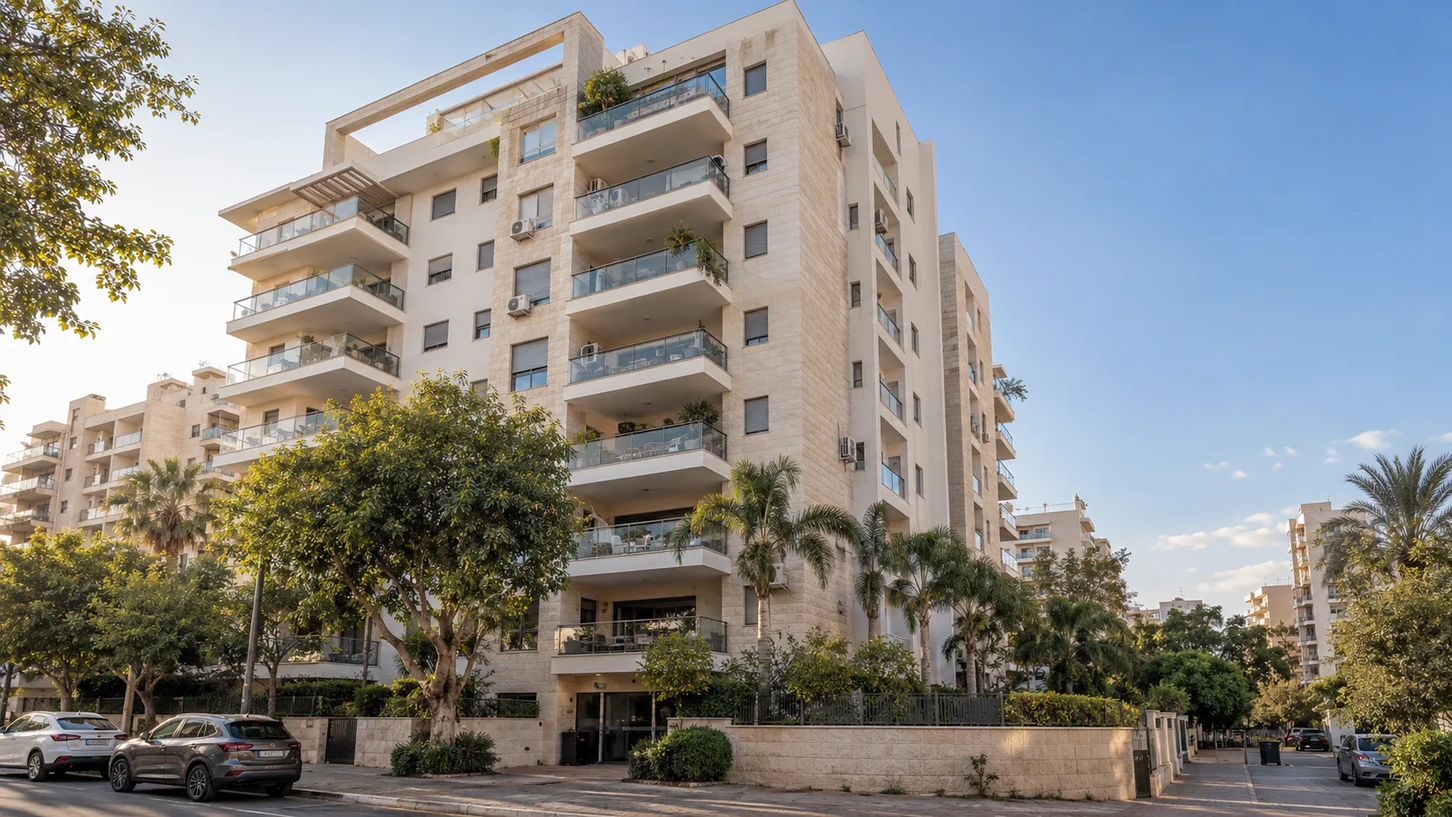
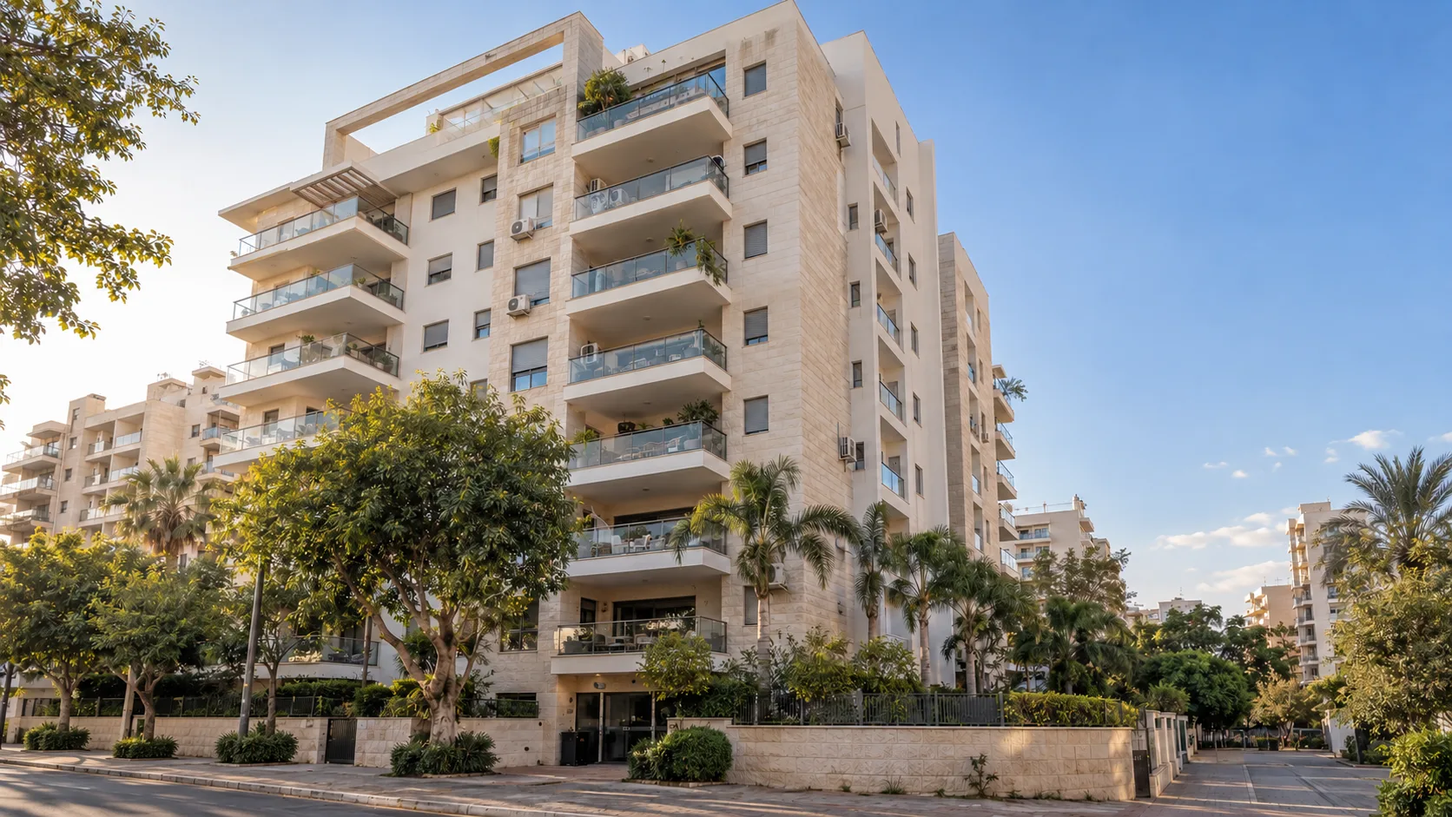
Hero images without cars (desktop and mobile), thin chevron in all buttons

diff --git a/index.html b/index.html
@@ -64,7 +64,7 @@
       <div class="nav__cta">
         <a class="btn btn--primary" href="#contact">
           <span class="btn__label" data-text="הערכת מחיר שוק">הערכת מחיר שוק</span>
-          <span class="btn__circle" aria-hidden="true"><svg focusable="false" xmlns="http://www.w3.org/2000/svg" viewBox="0 0 24 24" fill="currentColor" aria-hidden="true"><path fill-rule="nonzero" clip-rule="nonzero" d="M21.5 12C21.5 12.276 21.276 12.5 21 12.5L4.207 12.5L10.353 18.646C10.548 18.841 10.548 19.158 10.353 19.353C10.255 19.451 10.127 19.499 9.999 19.499C9.871 19.499 9.743 19.45 9.645 19.353L2.645 12.353C2.599 12.307 2.562 12.251 2.537 12.19C2.486 12.068 2.486 11.93 2.537 11.808C2.562 11.746 2.599 11.691 2.645 11.645L9.645 4.645C9.84 4.45 10.157 4.45 10.352 4.645C10.547 4.84 10.547 5.157 10.352 5.352L4.206 11.498L21 11.498C21.276 11.5 21.5 11.724 21.5 12Z"/></svg></span>
+          <span class="btn__circle" aria-hidden="true"><svg focusable="false" xmlns="http://www.w3.org/2000/svg" viewBox="0 0 24 24" fill="currentColor" aria-hidden="true"><path fill-rule="nonzero" clip-rule="nonzero" d="M15.354 18.646C15.549 18.841 15.549 19.158 15.354 19.353C15.256 19.451 15.128 19.499 15 19.499C14.872 19.499 14.744 19.45 14.646 19.353L7.646 12.353C7.451 12.158 7.451 11.841 7.646 11.646L14.646 4.646C14.841 4.451 15.158 4.451 15.353 4.646C15.548 4.841 15.548 5.158 15.353 5.353L8.707 11.999L15.354 18.646Z"/></svg></span>
         </a>
       </div>
     </nav>
@@ -72,7 +72,7 @@
     <div class="site-header__cta">
       <a class="btn btn--primary" href="#contact">
         <span class="btn__label" data-text="הערכת מחיר שוק">הערכת מחיר שוק</span>
-        <span class="btn__circle" aria-hidden="true"><svg focusable="false" xmlns="http://www.w3.org/2000/svg" viewBox="0 0 24 24" fill="currentColor" aria-hidden="true"><path fill-rule="nonzero" clip-rule="nonzero" d="M21.5 12C21.5 12.276 21.276 12.5 21 12.5L4.207 12.5L10.353 18.646C10.548 18.841 10.548 19.158 10.353 19.353C10.255 19.451 10.127 19.499 9.999 19.499C9.871 19.499 9.743 19.45 9.645 19.353L2.645 12.353C2.599 12.307 2.562 12.251 2.537 12.19C2.486 12.068 2.486 11.93 2.537 11.808C2.562 11.746 2.599 11.691 2.645 11.645L9.645 4.645C9.84 4.45 10.157 4.45 10.352 4.645C10.547 4.84 10.547 5.157 10.352 5.352L4.206 11.498L21 11.498C21.276 11.5 21.5 11.724 21.5 12Z"/></svg></span>
+        <span class="btn__circle" aria-hidden="true"><svg focusable="false" xmlns="http://www.w3.org/2000/svg" viewBox="0 0 24 24" fill="currentColor" aria-hidden="true"><path fill-rule="nonzero" clip-rule="nonzero" d="M15.354 18.646C15.549 18.841 15.549 19.158 15.354 19.353C15.256 19.451 15.128 19.499 15 19.499C14.872 19.499 14.744 19.45 14.646 19.353L7.646 12.353C7.451 12.158 7.451 11.841 7.646 11.646L14.646 4.646C14.841 4.451 15.158 4.451 15.353 4.646C15.548 4.841 15.548 5.158 15.353 5.353L8.707 11.999L15.354 18.646Z"/></svg></span>
       </a>
     </div>
 
@@ -91,8 +91,8 @@
     <p class="hero__title"><span class="hero__title-light">יש לכם דירה.</span><span class="hero__title-bold">יש לנו קונים<em>.</em></span></p>
     <p class="hero__lead"><strong>מאגר רחב של קונים מקומיים ותושבי חוץ</strong> מחכה לדירה שלכם, וביקוש גבוה הוא מה שמעלה מחיר. לכן אצלנו היא שווה יותר. ומי שמחפש בית? גם לו יש כאן <strong>דירות יד שנייה ופרויקטים חדשים מקבלן</strong>, במקום אחד.</p>
     <div class="hero__actions">
-        <a class="btn btn--primary" href="/sell-apartment/"><span class="btn__label" data-text="רוצים למכור">רוצים למכור</span><span class="btn__circle" aria-hidden="true"><svg focusable="false" xmlns="http://www.w3.org/2000/svg" viewBox="0 0 24 24" fill="currentColor" aria-hidden="true"><path fill-rule="nonzero" clip-rule="nonzero" d="M21.5 12C21.5 12.276 21.276 12.5 21 12.5L4.207 12.5L10.353 18.646C10.548 18.841 10.548 19.158 10.353 19.353C10.255 19.451 10.127 19.499 9.999 19.499C9.871 19.499 9.743 19.45 9.645 19.353L2.645 12.353C2.599 12.307 2.562 12.251 2.537 12.19C2.486 12.068 2.486 11.93 2.537 11.808C2.562 11.746 2.599 11.691 2.645 11.645L9.645 4.645C9.84 4.45 10.157 4.45 10.352 4.645C10.547 4.84 10.547 5.157 10.352 5.352L4.206 11.498L21 11.498C21.276 11.5 21.5 11.724 21.5 12Z"/></svg></span></a>
-        <a class="btn btn--glass" href="/apartments-for-sale/"><span class="btn__label" data-text="מחפשים דירה">מחפשים דירה</span><span class="btn__circle" aria-hidden="true"><svg focusable="false" xmlns="http://www.w3.org/2000/svg" viewBox="0 0 24 24" fill="currentColor" aria-hidden="true"><path fill-rule="nonzero" clip-rule="nonzero" d="M21.5 12C21.5 12.276 21.276 12.5 21 12.5L4.207 12.5L10.353 18.646C10.548 18.841 10.548 19.158 10.353 19.353C10.255 19.451 10.127 19.499 9.999 19.499C9.871 19.499 9.743 19.45 9.645 19.353L2.645 12.353C2.599 12.307 2.562 12.251 2.537 12.19C2.486 12.068 2.486 11.93 2.537 11.808C2.562 11.746 2.599 11.691 2.645 11.645L9.645 4.645C9.84 4.45 10.157 4.45 10.352 4.645C10.547 4.84 10.547 5.157 10.352 5.352L4.206 11.498L21 11.498C21.276 11.5 21.5 11.724 21.5 12Z"/></svg></span></a>
+        <a class="btn btn--primary" href="/sell-apartment/"><span class="btn__label" data-text="רוצים למכור">רוצים למכור</span><span class="btn__circle" aria-hidden="true"><svg focusable="false" xmlns="http://www.w3.org/2000/svg" viewBox="0 0 24 24" fill="currentColor" aria-hidden="true"><path fill-rule="nonzero" clip-rule="nonzero" d="M15.354 18.646C15.549 18.841 15.549 19.158 15.354 19.353C15.256 19.451 15.128 19.499 15 19.499C14.872 19.499 14.744 19.45 14.646 19.353L7.646 12.353C7.451 12.158 7.451 11.841 7.646 11.646L14.646 4.646C14.841 4.451 15.158 4.451 15.353 4.646C15.548 4.841 15.548 5.158 15.353 5.353L8.707 11.999L15.354 18.646Z"/></svg></span></a>
+        <a class="btn btn--glass" href="/apartments-for-sale/"><span class="btn__label" data-text="מחפשים דירה">מחפשים דירה</span><span class="btn__circle" aria-hidden="true"><svg focusable="false" xmlns="http://www.w3.org/2000/svg" viewBox="0 0 24 24" fill="currentColor" aria-hidden="true"><path fill-rule="nonzero" clip-rule="nonzero" d="M15.354 18.646C15.549 18.841 15.549 19.158 15.354 19.353C15.256 19.451 15.128 19.499 15 19.499C14.872 19.499 14.744 19.45 14.646 19.353L7.646 12.353C7.451 12.158 7.451 11.841 7.646 11.646L14.646 4.646C14.841 4.451 15.158 4.451 15.353 4.646C15.548 4.841 15.548 5.158 15.353 5.353L8.707 11.999L15.354 18.646Z"/></svg></span></a>
       </div>
   </div>
 </section>
@@ -150,7 +150,7 @@
           <div class="step__body" id="sell-step-6"><div><p>מלווים אתכם עד החתימה על החוזה ומסירת המפתח.</p></div></div>
         </li>
       </ol>
-      <a class="btn btn--primary" href="/sell-apartment/#valuation"><span class="btn__label" data-text="להערכת מחיר שוק לדירה">להערכת מחיר שוק לדירה</span><span class="btn__circle" aria-hidden="true"><svg focusable="false" xmlns="http://www.w3.org/2000/svg" viewBox="0 0 24 24" fill="currentColor" aria-hidden="true"><path fill-rule="nonzero" clip-rule="nonzero" d="M21.5 12C21.5 12.276 21.276 12.5 21 12.5L4.207 12.5L10.353 18.646C10.548 18.841 10.548 19.158 10.353 19.353C10.255 19.451 10.127 19.499 9.999 19.499C9.871 19.499 9.743 19.45 9.645 19.353L2.645 12.353C2.599 12.307 2.562 12.251 2.537 12.19C2.486 12.068 2.486 11.93 2.537 11.808C2.562 11.746 2.599 11.691 2.645 11.645L9.645 4.645C9.84 4.45 10.157 4.45 10.352 4.645C10.547 4.84 10.547 5.157 10.352 5.352L4.206 11.498L21 11.498C21.276 11.5 21.5 11.724 21.5 12Z"/></svg></span></a>
+      <a class="btn btn--primary" href="/sell-apartment/#valuation"><span class="btn__label" data-text="להערכת מחיר שוק לדירה">להערכת מחיר שוק לדירה</span><span class="btn__circle" aria-hidden="true"><svg focusable="false" xmlns="http://www.w3.org/2000/svg" viewBox="0 0 24 24" fill="currentColor" aria-hidden="true"><path fill-rule="nonzero" clip-rule="nonzero" d="M15.354 18.646C15.549 18.841 15.549 19.158 15.354 19.353C15.256 19.451 15.128 19.499 15 19.499C14.872 19.499 14.744 19.45 14.646 19.353L7.646 12.353C7.451 12.158 7.451 11.841 7.646 11.646L14.646 4.646C14.841 4.451 15.158 4.451 15.353 4.646C15.548 4.841 15.548 5.158 15.353 5.353L8.707 11.999L15.354 18.646Z"/></svg></span></a>
     </div>
     <figure class="sellers__stage">
       <img src="img/sellers/step-1-valuation.webp" alt="בדיקת תוכנית דירה לצורך הערכת מחיר שוק" width="900" height="1200" decoding="async" class="is-active">
@@ -242,7 +242,7 @@
       </ul>
       <div class="areas__cta">
         <p class="areas__cta-text">לא בטוחים שאנחנו מגיעים אליכם?</p>
-        <a class="btn btn--primary" href="https://wa.me/972509372272" target="_blank" rel="noopener"><span class="btn__label" data-text="שלחו לנו הודעה בוואטסאפ">שלחו לנו הודעה בוואטסאפ</span><span class="btn__circle" aria-hidden="true"><svg focusable="false" xmlns="http://www.w3.org/2000/svg" viewBox="0 0 24 24" fill="currentColor" aria-hidden="true"><path fill-rule="nonzero" clip-rule="nonzero" d="M21.5 12C21.5 12.276 21.276 12.5 21 12.5L4.207 12.5L10.353 18.646C10.548 18.841 10.548 19.158 10.353 19.353C10.255 19.451 10.127 19.499 9.999 19.499C9.871 19.499 9.743 19.45 9.645 19.353L2.645 12.353C2.599 12.307 2.562 12.251 2.537 12.19C2.486 12.068 2.486 11.93 2.537 11.808C2.562 11.746 2.599 11.691 2.645 11.645L9.645 4.645C9.84 4.45 10.157 4.45 10.352 4.645C10.547 4.84 10.547 5.157 10.352 5.352L4.206 11.498L21 11.498C21.276 11.5 21.5 11.724 21.5 12Z"/></svg></span></a>
+        <a class="btn btn--primary" href="https://wa.me/972509372272" target="_blank" rel="noopener"><span class="btn__label" data-text="שלחו לנו הודעה בוואטסאפ">שלחו לנו הודעה בוואטסאפ</span><span class="btn__circle" aria-hidden="true"><svg focusable="false" xmlns="http://www.w3.org/2000/svg" viewBox="0 0 24 24" fill="currentColor" aria-hidden="true"><path fill-rule="nonzero" clip-rule="nonzero" d="M15.354 18.646C15.549 18.841 15.549 19.158 15.354 19.353C15.256 19.451 15.128 19.499 15 19.499C14.872 19.499 14.744 19.45 14.646 19.353L7.646 12.353C7.451 12.158 7.451 11.841 7.646 11.646L14.646 4.646C14.841 4.451 15.158 4.451 15.353 4.646C15.548 4.841 15.548 5.158 15.353 5.353L8.707 11.999L15.354 18.646Z"/></svg></span></a>
       </div>
     </div>
     <div class="areas__map">
@@ -274,35 +274,35 @@
       <h3 class="service__title">מכירת דירה</h3>
       <div class="service__body"><div class="service__inner">
         <p class="service__text">תיווך נדל"ן למוכרים: הכנה וצילום, שיווק באתר, ביד2 ובמדלן, סינון קונים ומשא ומתן עד החתימה.</p>
-        <a class="btn btn--primary" href="/sell-apartment/"><span class="btn__label" data-text="למכירת דירה">למכירת דירה</span><span class="btn__circle" aria-hidden="true"><svg focusable="false" xmlns="http://www.w3.org/2000/svg" viewBox="0 0 24 24" fill="currentColor" aria-hidden="true"><path fill-rule="nonzero" clip-rule="nonzero" d="M21.5 12C21.5 12.276 21.276 12.5 21 12.5L4.207 12.5L10.353 18.646C10.548 18.841 10.548 19.158 10.353 19.353C10.255 19.451 10.127 19.499 9.999 19.499C9.871 19.499 9.743 19.45 9.645 19.353L2.645 12.353C2.599 12.307 2.562 12.251 2.537 12.19C2.486 12.068 2.486 11.93 2.537 11.808C2.562 11.746 2.599 11.691 2.645 11.645L9.645 4.645C9.84 4.45 10.157 4.45 10.352 4.645C10.547 4.84 10.547 5.157 10.352 5.352L4.206 11.498L21 11.498C21.276 11.5 21.5 11.724 21.5 12Z"/></svg></span></a>
+        <a class="btn btn--primary" href="/sell-apartment/"><span class="btn__label" data-text="למכירת דירה">למכירת דירה</span><span class="btn__circle" aria-hidden="true"><svg focusable="false" xmlns="http://www.w3.org/2000/svg" viewBox="0 0 24 24" fill="currentColor" aria-hidden="true"><path fill-rule="nonzero" clip-rule="nonzero" d="M15.354 18.646C15.549 18.841 15.549 19.158 15.354 19.353C15.256 19.451 15.128 19.499 15 19.499C14.872 19.499 14.744 19.45 14.646 19.353L7.646 12.353C7.451 12.158 7.451 11.841 7.646 11.646L14.646 4.646C14.841 4.451 15.158 4.451 15.353 4.646C15.548 4.841 15.548 5.158 15.353 5.353L8.707 11.999L15.354 18.646Z"/></svg></span></a>
       </div></div>
     </li>
     <li class="service" style="background-image: url(img/sellers/step-1-valuation.webp)">
       <h3 class="service__title">הערכת מחיר שוק</h3>
       <div class="service__body"><div class="service__inner">
         <p class="service__text">הערכת מחיר שוק היא הצעד הראשון בכל תיווך נדל"ן: מחיר מבוסס ומציאותי לדירה שלכם, לפי הדירה, השכונה ועסקאות דומות.</p>
-        <a class="btn btn--primary" href="/sell-apartment/#valuation"><span class="btn__label" data-text="להערכת מחיר שוק">להערכת מחיר שוק</span><span class="btn__circle" aria-hidden="true"><svg focusable="false" xmlns="http://www.w3.org/2000/svg" viewBox="0 0 24 24" fill="currentColor" aria-hidden="true"><path fill-rule="nonzero" clip-rule="nonzero" d="M21.5 12C21.5 12.276 21.276 12.5 21 12.5L4.207 12.5L10.353 18.646C10.548 18.841 10.548 19.158 10.353 19.353C10.255 19.451 10.127 19.499 9.999 19.499C9.871 19.499 9.743 19.45 9.645 19.353L2.645 12.353C2.599 12.307 2.562 12.251 2.537 12.19C2.486 12.068 2.486 11.93 2.537 11.808C2.562 11.746 2.599 11.691 2.645 11.645L9.645 4.645C9.84 4.45 10.157 4.45 10.352 4.645C10.547 4.84 10.547 5.157 10.352 5.352L4.206 11.498L21 11.498C21.276 11.5 21.5 11.724 21.5 12Z"/></svg></span></a>
+        <a class="btn btn--primary" href="/sell-apartment/#valuation"><span class="btn__label" data-text="להערכת מחיר שוק">להערכת מחיר שוק</span><span class="btn__circle" aria-hidden="true"><svg focusable="false" xmlns="http://www.w3.org/2000/svg" viewBox="0 0 24 24" fill="currentColor" aria-hidden="true"><path fill-rule="nonzero" clip-rule="nonzero" d="M15.354 18.646C15.549 18.841 15.549 19.158 15.354 19.353C15.256 19.451 15.128 19.499 15 19.499C14.872 19.499 14.744 19.45 14.646 19.353L7.646 12.353C7.451 12.158 7.451 11.841 7.646 11.646L14.646 4.646C14.841 4.451 15.158 4.451 15.353 4.646C15.548 4.841 15.548 5.158 15.353 5.353L8.707 11.999L15.354 18.646Z"/></svg></span></a>
       </div></div>
     </li>
     <li class="service" style="background-image: url(img/listings/resale-4-rooms.webp)">
       <h3 class="service__title">דירות יד שנייה</h3>
       <div class="service__body"><div class="service__inner">
         <p class="service__text">תיווך נדל"ן לדירות למכירה בכל המרכז, עם ליווי אישי מהחיפוש הראשון ועד החתימה.</p>
-        <a class="btn btn--primary" href="/apartments-for-sale/"><span class="btn__label" data-text="לדירות למכירה">לדירות למכירה</span><span class="btn__circle" aria-hidden="true"><svg focusable="false" xmlns="http://www.w3.org/2000/svg" viewBox="0 0 24 24" fill="currentColor" aria-hidden="true"><path fill-rule="nonzero" clip-rule="nonzero" d="M21.5 12C21.5 12.276 21.276 12.5 21 12.5L4.207 12.5L10.353 18.646C10.548 18.841 10.548 19.158 10.353 19.353C10.255 19.451 10.127 19.499 9.999 19.499C9.871 19.499 9.743 19.45 9.645 19.353L2.645 12.353C2.599 12.307 2.562 12.251 2.537 12.19C2.486 12.068 2.486 11.93 2.537 11.808C2.562 11.746 2.599 11.691 2.645 11.645L9.645 4.645C9.84 4.45 10.157 4.45 10.352 4.645C10.547 4.84 10.547 5.157 10.352 5.352L4.206 11.498L21 11.498C21.276 11.5 21.5 11.724 21.5 12Z"/></svg></span></a>
+        <a class="btn btn--primary" href="/apartments-for-sale/"><span class="btn__label" data-text="לדירות למכירה">לדירות למכירה</span><span class="btn__circle" aria-hidden="true"><svg focusable="false" xmlns="http://www.w3.org/2000/svg" viewBox="0 0 24 24" fill="currentColor" aria-hidden="true"><path fill-rule="nonzero" clip-rule="nonzero" d="M15.354 18.646C15.549 18.841 15.549 19.158 15.354 19.353C15.256 19.451 15.128 19.499 15 19.499C14.872 19.499 14.744 19.45 14.646 19.353L7.646 12.353C7.451 12.158 7.451 11.841 7.646 11.646L14.646 4.646C14.841 4.451 15.158 4.451 15.353 4.646C15.548 4.841 15.548 5.158 15.353 5.353L8.707 11.999L15.354 18.646Z"/></svg></span></a>
       </div></div>
     </li>
     <li class="service" style="background-image: url(img/gallery/g3.webp)">
       <h3 class="service__title">פרויקטים חדשים מקבלן</h3>
       <div class="service__body"><div class="service__inner">
         <p class="service__text">תיווך נדל"ן לדירות חדשות בפרויקטים שאנחנו משווקים מטעם היזם, בלי עמלה לרוכשים.</p>
-        <a class="btn btn--primary" href="/new-projects/"><span class="btn__label" data-text="לפרויקטים החדשים">לפרויקטים החדשים</span><span class="btn__circle" aria-hidden="true"><svg focusable="false" xmlns="http://www.w3.org/2000/svg" viewBox="0 0 24 24" fill="currentColor" aria-hidden="true"><path fill-rule="nonzero" clip-rule="nonzero" d="M21.5 12C21.5 12.276 21.276 12.5 21 12.5L4.207 12.5L10.353 18.646C10.548 18.841 10.548 19.158 10.353 19.353C10.255 19.451 10.127 19.499 9.999 19.499C9.871 19.499 9.743 19.45 9.645 19.353L2.645 12.353C2.599 12.307 2.562 12.251 2.537 12.19C2.486 12.068 2.486 11.93 2.537 11.808C2.562 11.746 2.599 11.691 2.645 11.645L9.645 4.645C9.84 4.45 10.157 4.45 10.352 4.645C10.547 4.84 10.547 5.157 10.352 5.352L4.206 11.498L21 11.498C21.276 11.5 21.5 11.724 21.5 12Z"/></svg></span></a>
+        <a class="btn btn--primary" href="/new-projects/"><span class="btn__label" data-text="לפרויקטים החדשים">לפרויקטים החדשים</span><span class="btn__circle" aria-hidden="true"><svg focusable="false" xmlns="http://www.w3.org/2000/svg" viewBox="0 0 24 24" fill="currentColor" aria-hidden="true"><path fill-rule="nonzero" clip-rule="nonzero" d="M15.354 18.646C15.549 18.841 15.549 19.158 15.354 19.353C15.256 19.451 15.128 19.499 15 19.499C14.872 19.499 14.744 19.45 14.646 19.353L7.646 12.353C7.451 12.158 7.451 11.841 7.646 11.646L14.646 4.646C14.841 4.451 15.158 4.451 15.353 4.646C15.548 4.841 15.548 5.158 15.353 5.353L8.707 11.999L15.354 18.646Z"/></svg></span></a>
       </div></div>
     </li>
     <li class="service" style="background-image: url(img/gallery/g5.webp)">
       <h3 class="service__title">שיווק פרויקטים ליזמים</h3>
       <div class="service__body"><div class="service__inner">
         <p class="service__text">אסטרטגיה, מיתוג, תמחור וניהול מכירות, משלב התכנון המוקדם ועד הדירה האחרונה.</p>
-        <a class="btn btn--primary" href="/developers/"><span class="btn__label" data-text="לאזור היזמים">לאזור היזמים</span><span class="btn__circle" aria-hidden="true"><svg focusable="false" xmlns="http://www.w3.org/2000/svg" viewBox="0 0 24 24" fill="currentColor" aria-hidden="true"><path fill-rule="nonzero" clip-rule="nonzero" d="M21.5 12C21.5 12.276 21.276 12.5 21 12.5L4.207 12.5L10.353 18.646C10.548 18.841 10.548 19.158 10.353 19.353C10.255 19.451 10.127 19.499 9.999 19.499C9.871 19.499 9.743 19.45 9.645 19.353L2.645 12.353C2.599 12.307 2.562 12.251 2.537 12.19C2.486 12.068 2.486 11.93 2.537 11.808C2.562 11.746 2.599 11.691 2.645 11.645L9.645 4.645C9.84 4.45 10.157 4.45 10.352 4.645C10.547 4.84 10.547 5.157 10.352 5.352L4.206 11.498L21 11.498C21.276 11.5 21.5 11.724 21.5 12Z"/></svg></span></a>
+        <a class="btn btn--primary" href="/developers/"><span class="btn__label" data-text="לאזור היזמים">לאזור היזמים</span><span class="btn__circle" aria-hidden="true"><svg focusable="false" xmlns="http://www.w3.org/2000/svg" viewBox="0 0 24 24" fill="currentColor" aria-hidden="true"><path fill-rule="nonzero" clip-rule="nonzero" d="M15.354 18.646C15.549 18.841 15.549 19.158 15.354 19.353C15.256 19.451 15.128 19.499 15 19.499C14.872 19.499 14.744 19.45 14.646 19.353L7.646 12.353C7.451 12.158 7.451 11.841 7.646 11.646L14.646 4.646C14.841 4.451 15.158 4.451 15.353 4.646C15.548 4.841 15.548 5.158 15.353 5.353L8.707 11.999L15.354 18.646Z"/></svg></span></a>
       </div></div>
     </li>
   </ul>
@@ -329,7 +329,7 @@
       <label class="search__field search__field--wide"><span class="search__label">שכונה</span><select name="area"><option value="" selected>כל השכונות</option><option value="merkaz-hashaket">המרכז השקט</option><option value="kfar-ganim">כפר גנים</option><option value="ein-ganim">עין גנים</option><option value="shiffer">שיפר</option><option value="achdut">אחדות</option><option value="neve-gan">נווה גן</option><option value="em-hamoshavot">אם המושבות</option><option value="hadar-ganim">הדר גנים</option></select><svg class="ico" aria-hidden="true" focusable="false"><use href="#i-down"/></svg></label>
       <label class="search__field"><span class="search__label">חדרים</span><select name="rooms"><option value="" selected>הכל</option><option value="2">2 ומעלה</option><option value="3">3 ומעלה</option><option value="4">4 ומעלה</option><option value="5">5 ומעלה</option></select><svg class="ico" aria-hidden="true" focusable="false"><use href="#i-down"/></svg></label>
       <label class="search__field"><span class="search__label">מחיר עד</span><select name="price_max"><option value="" selected>ללא הגבלה</option><option value="2000000">2,000,000 ₪</option><option value="2500000">2,500,000 ₪</option><option value="3000000">3,000,000 ₪</option><option value="4000000">4,000,000 ₪</option><option value="5000000">5,000,000 ₪</option></select><svg class="ico" aria-hidden="true" focusable="false"><use href="#i-down"/></svg></label>
-      <button class="search__send" type="submit"><span>חיפוש דירה</span><span aria-hidden="true"><svg focusable="false" xmlns="http://www.w3.org/2000/svg" viewBox="0 0 24 24" fill="currentColor" aria-hidden="true"><path fill-rule="nonzero" clip-rule="nonzero" d="M21.5 12C21.5 12.276 21.276 12.5 21 12.5L4.207 12.5L10.353 18.646C10.548 18.841 10.548 19.158 10.353 19.353C10.255 19.451 10.127 19.499 9.999 19.499C9.871 19.499 9.743 19.45 9.645 19.353L2.645 12.353C2.599 12.307 2.562 12.251 2.537 12.19C2.486 12.068 2.486 11.93 2.537 11.808C2.562 11.746 2.599 11.691 2.645 11.645L9.645 4.645C9.84 4.45 10.157 4.45 10.352 4.645C10.547 4.84 10.547 5.157 10.352 5.352L4.206 11.498L21 11.498C21.276 11.5 21.5 11.724 21.5 12Z"/></svg></span></button>
+      <button class="search__send" type="submit"><span>חיפוש דירה</span><span aria-hidden="true"><svg focusable="false" xmlns="http://www.w3.org/2000/svg" viewBox="0 0 24 24" fill="currentColor" aria-hidden="true"><path fill-rule="nonzero" clip-rule="nonzero" d="M15.354 18.646C15.549 18.841 15.549 19.158 15.354 19.353C15.256 19.451 15.128 19.499 15 19.499C14.872 19.499 14.744 19.45 14.646 19.353L7.646 12.353C7.451 12.158 7.451 11.841 7.646 11.646L14.646 4.646C14.841 4.451 15.158 4.451 15.353 4.646C15.548 4.841 15.548 5.158 15.353 5.353L8.707 11.999L15.354 18.646Z"/></svg></span></button>
     </div>
   </form>
 
@@ -467,7 +467,7 @@
       <h2 class="about__title" id="about-title">חברה בעלת מוניטין לתיווך נדל"ן ושיווק פרויקטים</h2>
       <p class="about__body">בהר סלול נדל"ן אנחנו מציבים רף גבוה של מקצוענות וחדשנות בתיווך נדל"ן. מהמשרד שלנו בפתח תקווה אנחנו מלווים קונים, מוכרים ויזמים בכל המרכז, מחדרה ועד ראשון לציון, וכל לקוח זוכה לליווי וייעוץ צמוד, מהשיחה הראשונה ועד מסירת המפתח. מרדכי, עם 11 שנות ניסיון בשיווק הנדל"ן, ויונתן, עם כ-9 שנים בשיווק ותכנון נדל"ן, מובילים צוות מכירות, שיווק וניהול עם מוטיבציה גבוהה לכל אתגר ומחויבות אישית לכל לקוח.</p>
       <p class="about__sign">מרדכי פרל ויונתן נגר<span>שותפים ובעלים</span></p>
-      <a class="btn btn--primary" href="/about/"><span class="btn__label" data-text="קראו עוד עלינו">קראו עוד עלינו</span><span class="btn__circle" aria-hidden="true"><svg focusable="false" xmlns="http://www.w3.org/2000/svg" viewBox="0 0 24 24" fill="currentColor" aria-hidden="true"><path fill-rule="nonzero" clip-rule="nonzero" d="M21.5 12C21.5 12.276 21.276 12.5 21 12.5L4.207 12.5L10.353 18.646C10.548 18.841 10.548 19.158 10.353 19.353C10.255 19.451 10.127 19.499 9.999 19.499C9.871 19.499 9.743 19.45 9.645 19.353L2.645 12.353C2.599 12.307 2.562 12.251 2.537 12.19C2.486 12.068 2.486 11.93 2.537 11.808C2.562 11.746 2.599 11.691 2.645 11.645L9.645 4.645C9.84 4.45 10.157 4.45 10.352 4.645C10.547 4.84 10.547 5.157 10.352 5.352L4.206 11.498L21 11.498C21.276 11.5 21.5 11.724 21.5 12Z"/></svg></span></a>
+      <a class="btn btn--primary" href="/about/"><span class="btn__label" data-text="קראו עוד עלינו">קראו עוד עלינו</span><span class="btn__circle" aria-hidden="true"><svg focusable="false" xmlns="http://www.w3.org/2000/svg" viewBox="0 0 24 24" fill="currentColor" aria-hidden="true"><path fill-rule="nonzero" clip-rule="nonzero" d="M15.354 18.646C15.549 18.841 15.549 19.158 15.354 19.353C15.256 19.451 15.128 19.499 15 19.499C14.872 19.499 14.744 19.45 14.646 19.353L7.646 12.353C7.451 12.158 7.451 11.841 7.646 11.646L14.646 4.646C14.841 4.451 15.158 4.451 15.353 4.646C15.548 4.841 15.548 5.158 15.353 5.353L8.707 11.999L15.354 18.646Z"/></svg></span></a>
     </div>
   </div>
   <!-- גרסה 3: השותפים אחד מתחת לשני, תמונה אמיתית ותיאור מלא לכל אחד (הטקסט מהאתר הקיים salul.co.il) -->
@@ -662,7 +662,7 @@
       <h2 class="magazine__title" id="magazine-title">מאמרים ומדריכים</h2>
       <p class="magazine__intro">ידע מהשטח על תיווך נדל"ן, קנייה, מכירה ושיווק פרויקטים, מהצוות של הר סלול.</p>
     </div>
-    <a class="btn btn--primary" href="/academy/"><span class="btn__label" data-text="לכל המאמרים">לכל המאמרים</span><span class="btn__circle" aria-hidden="true"><svg focusable="false" xmlns="http://www.w3.org/2000/svg" viewBox="0 0 24 24" fill="currentColor" aria-hidden="true"><path fill-rule="nonzero" clip-rule="nonzero" d="M21.5 12C21.5 12.276 21.276 12.5 21 12.5L4.207 12.5L10.353 18.646C10.548 18.841 10.548 19.158 10.353 19.353C10.255 19.451 10.127 19.499 9.999 19.499C9.871 19.499 9.743 19.45 9.645 19.353L2.645 12.353C2.599 12.307 2.562 12.251 2.537 12.19C2.486 12.068 2.486 11.93 2.537 11.808C2.562 11.746 2.599 11.691 2.645 11.645L9.645 4.645C9.84 4.45 10.157 4.45 10.352 4.645C10.547 4.84 10.547 5.157 10.352 5.352L4.206 11.498L21 11.498C21.276 11.5 21.5 11.724 21.5 12Z"/></svg></span></a>
+    <a class="btn btn--primary" href="/academy/"><span class="btn__label" data-text="לכל המאמרים">לכל המאמרים</span><span class="btn__circle" aria-hidden="true"><svg focusable="false" xmlns="http://www.w3.org/2000/svg" viewBox="0 0 24 24" fill="currentColor" aria-hidden="true"><path fill-rule="nonzero" clip-rule="nonzero" d="M15.354 18.646C15.549 18.841 15.549 19.158 15.354 19.353C15.256 19.451 15.128 19.499 15 19.499C14.872 19.499 14.744 19.45 14.646 19.353L7.646 12.353C7.451 12.158 7.451 11.841 7.646 11.646L14.646 4.646C14.841 4.451 15.158 4.451 15.353 4.646C15.548 4.841 15.548 5.158 15.353 5.353L8.707 11.999L15.354 18.646Z"/></svg></span></a>
   </div>
   <ul class="magazine__grid">
     <li class="article">
@@ -783,7 +783,7 @@
         <label class="contact-bar__field"><span class="sr-only">שם</span><input type="text" name="name" placeholder="שם" autocomplete="name" required></label>
         <label class="contact-bar__field"><span class="sr-only">טלפון</span><input type="tel" name="phone" placeholder="טלפון" autocomplete="tel" inputmode="tel" required></label>
         <label class="contact-bar__field"><span class="sr-only">אימייל</span><input type="email" name="email" placeholder="אימייל" autocomplete="email" required></label>
-        <button class="contact-bar__send" type="submit"><span>שליחה</span><span aria-hidden="true"><svg focusable="false" xmlns="http://www.w3.org/2000/svg" viewBox="0 0 24 24" fill="currentColor" aria-hidden="true"><path fill-rule="nonzero" clip-rule="nonzero" d="M21.5 12C21.5 12.276 21.276 12.5 21 12.5L4.207 12.5L10.353 18.646C10.548 18.841 10.548 19.158 10.353 19.353C10.255 19.451 10.127 19.499 9.999 19.499C9.871 19.499 9.743 19.45 9.645 19.353L2.645 12.353C2.599 12.307 2.562 12.251 2.537 12.19C2.486 12.068 2.486 11.93 2.537 11.808C2.562 11.746 2.599 11.691 2.645 11.645L9.645 4.645C9.84 4.45 10.157 4.45 10.352 4.645C10.547 4.84 10.547 5.157 10.352 5.352L4.206 11.498L21 11.498C21.276 11.5 21.5 11.724 21.5 12Z"/></svg></span></button>
+        <button class="contact-bar__send" type="submit"><span>שליחה</span><span aria-hidden="true"><svg focusable="false" xmlns="http://www.w3.org/2000/svg" viewBox="0 0 24 24" fill="currentColor" aria-hidden="true"><path fill-rule="nonzero" clip-rule="nonzero" d="M15.354 18.646C15.549 18.841 15.549 19.158 15.354 19.353C15.256 19.451 15.128 19.499 15 19.499C14.872 19.499 14.744 19.45 14.646 19.353L7.646 12.353C7.451 12.158 7.451 11.841 7.646 11.646L14.646 4.646C14.841 4.451 15.158 4.451 15.353 4.646C15.548 4.841 15.548 5.158 15.353 5.353L8.707 11.999L15.354 18.646Z"/></svg></span></button>
       </div>
       <label class="contact-bar__consent"><input type="checkbox" name="consent" required><span>אני מאשר/ת שימוש בפרטים שלי לצורך חזרה אליי וקראתי ואני מסכים/ה <a href="/privacy/">למדיניות הפרטיות</a></span></label>
       <p class="contact-bar__ok" role="status" hidden>תודה! קיבלנו את הפרטים ונחזור אליכם בהקדם.</p>

diff --git a/css/theme-light.css b/css/theme-light.css
@@ -32,7 +32,7 @@
 .btn { gap: 14px; min-width: 0; justify-content: center; padding-inline: 32px 28px; }
 .btn:hover, .btn:focus-visible { padding-inline-start: 32px; gap: 14px; }
 .btn__circle { width: auto; height: auto; background: none !important; color: var(--btn-fg, currentColor) !important; border-radius: 0; transition: transform .35s cubic-bezier(.4, 0, .2, 1); }
-.btn__circle svg { width: 22px; height: 22px; }
+.btn__circle svg { width: 20px; height: 20px; }
 .btn:hover .btn__circle, .btn:focus-visible .btn__circle { transform: translateX(-5px); }
 @media (prefers-reduced-motion: reduce) { .btn:hover .btn__circle { transform: none; } }
 .btn--outline-light:hover { box-shadow: inset 0 0 0 1px var(--cream); }
